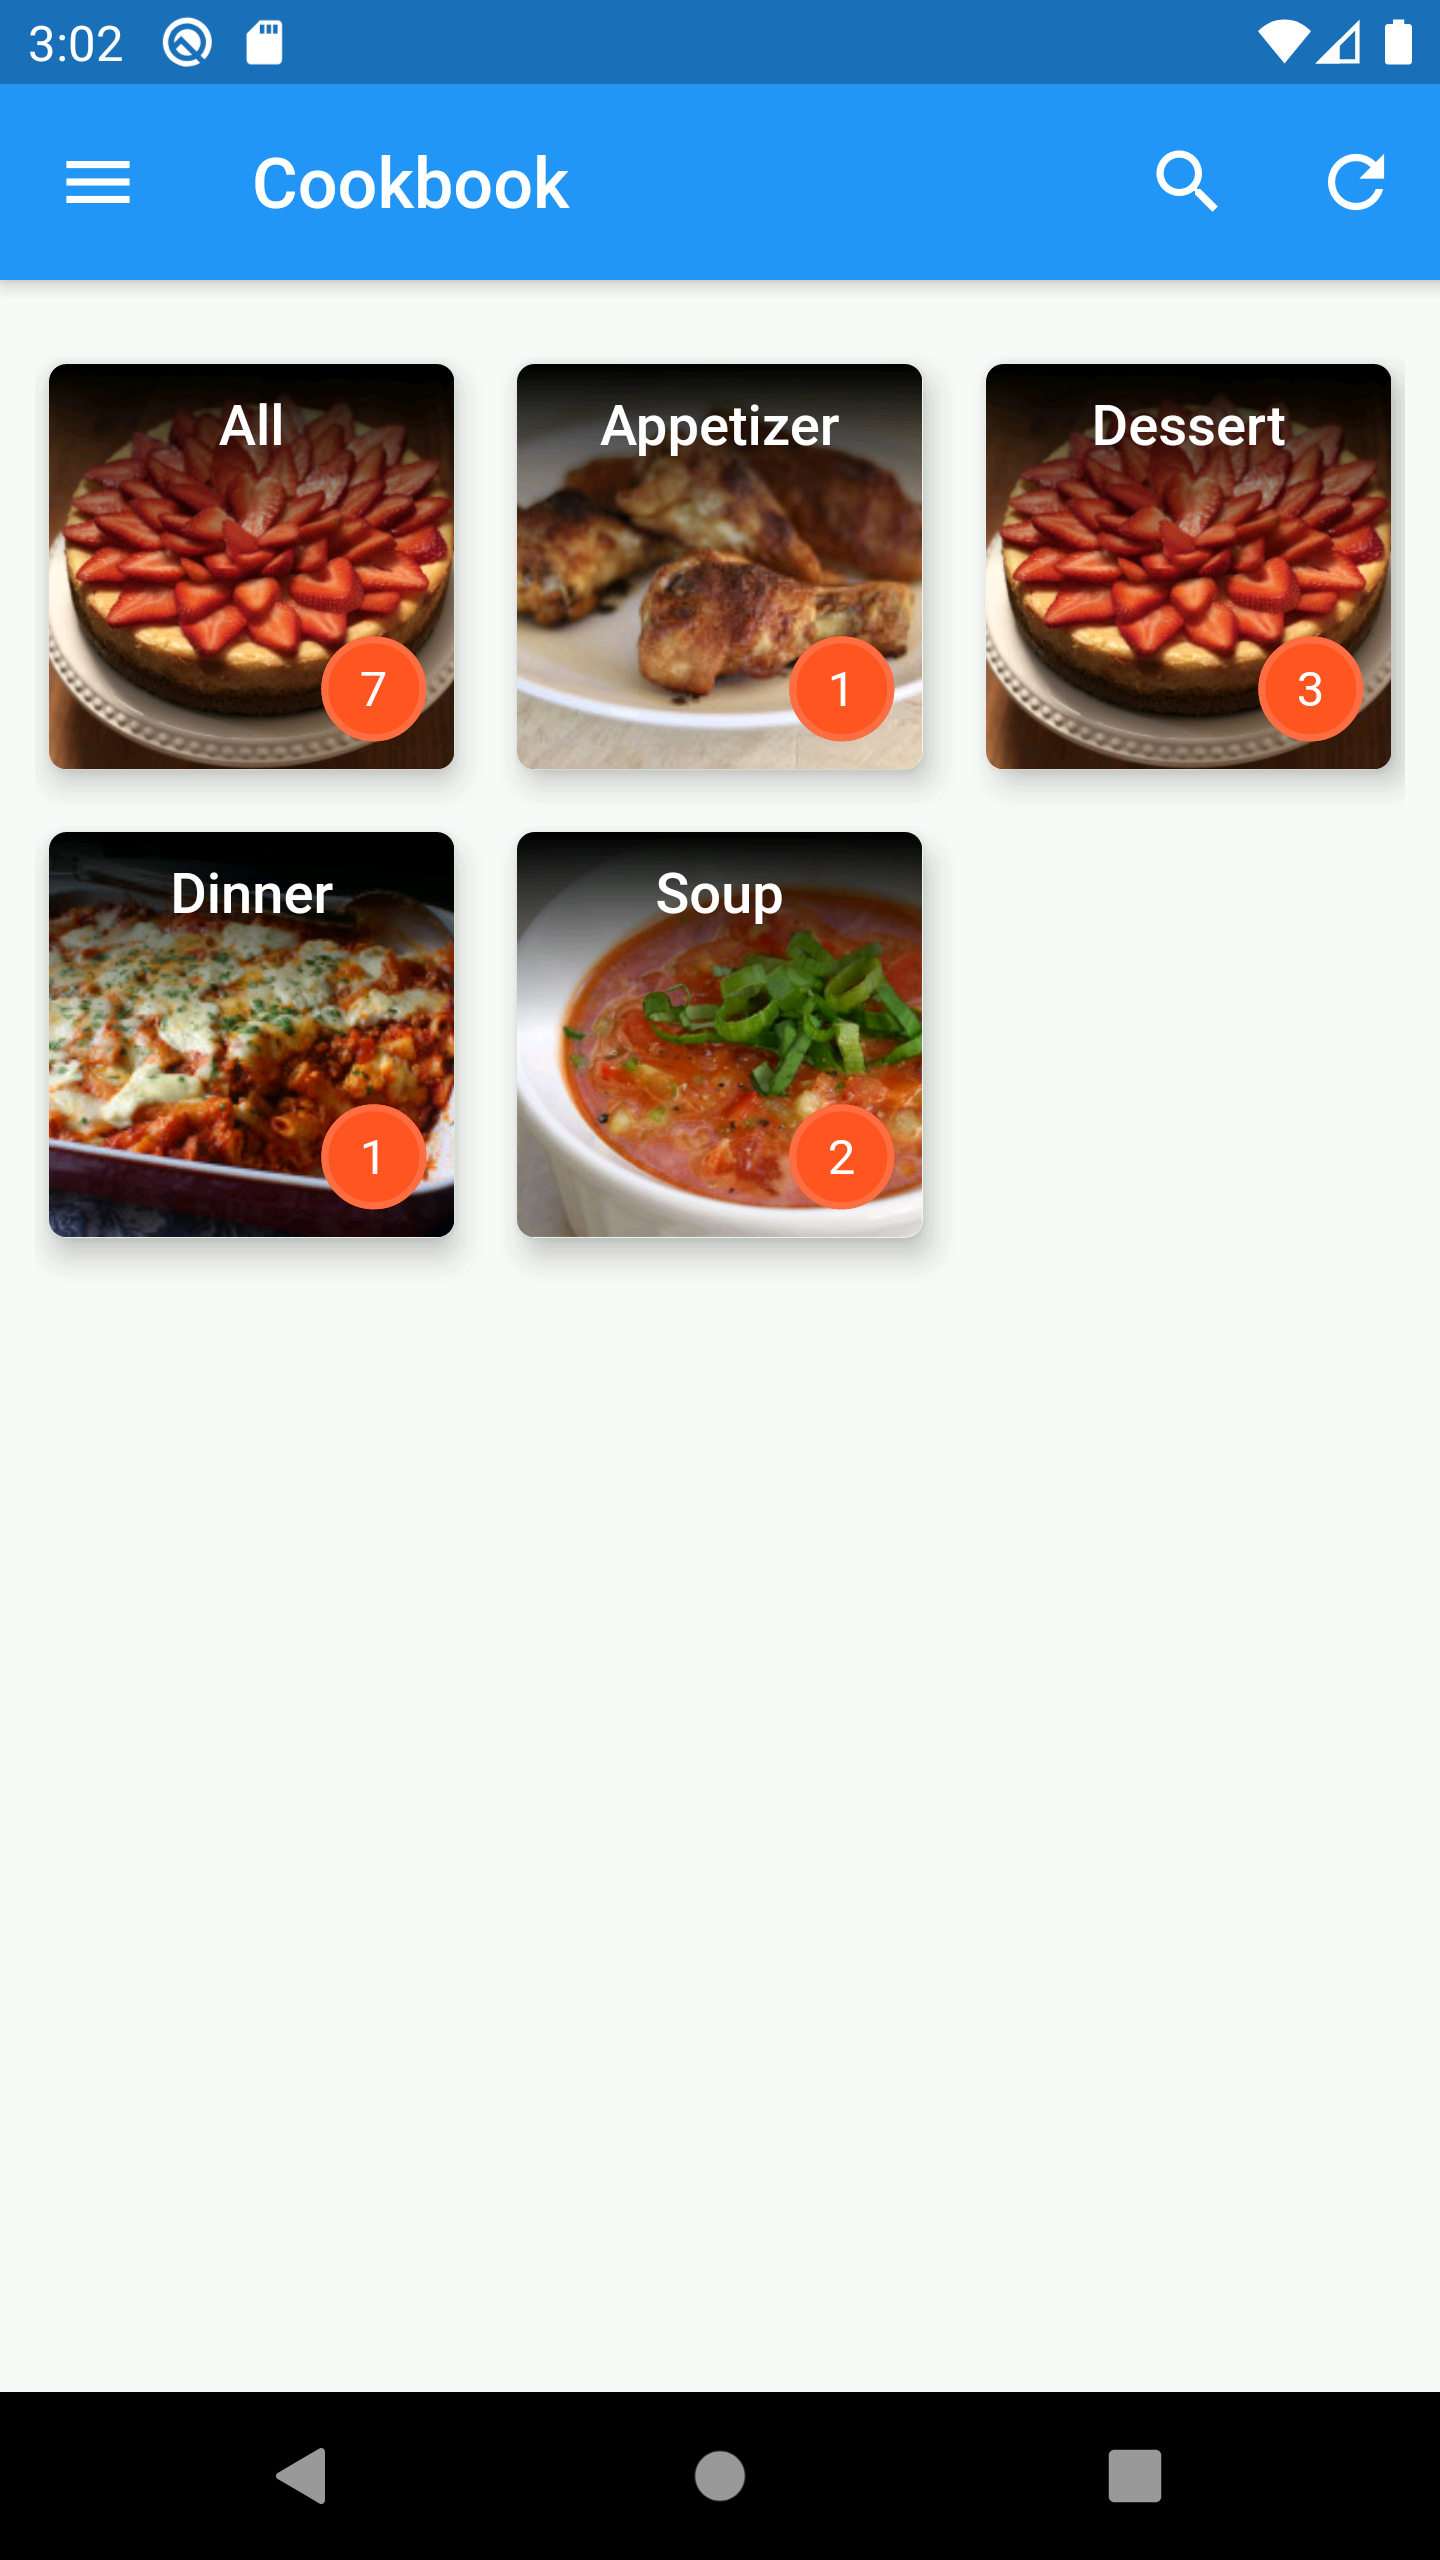
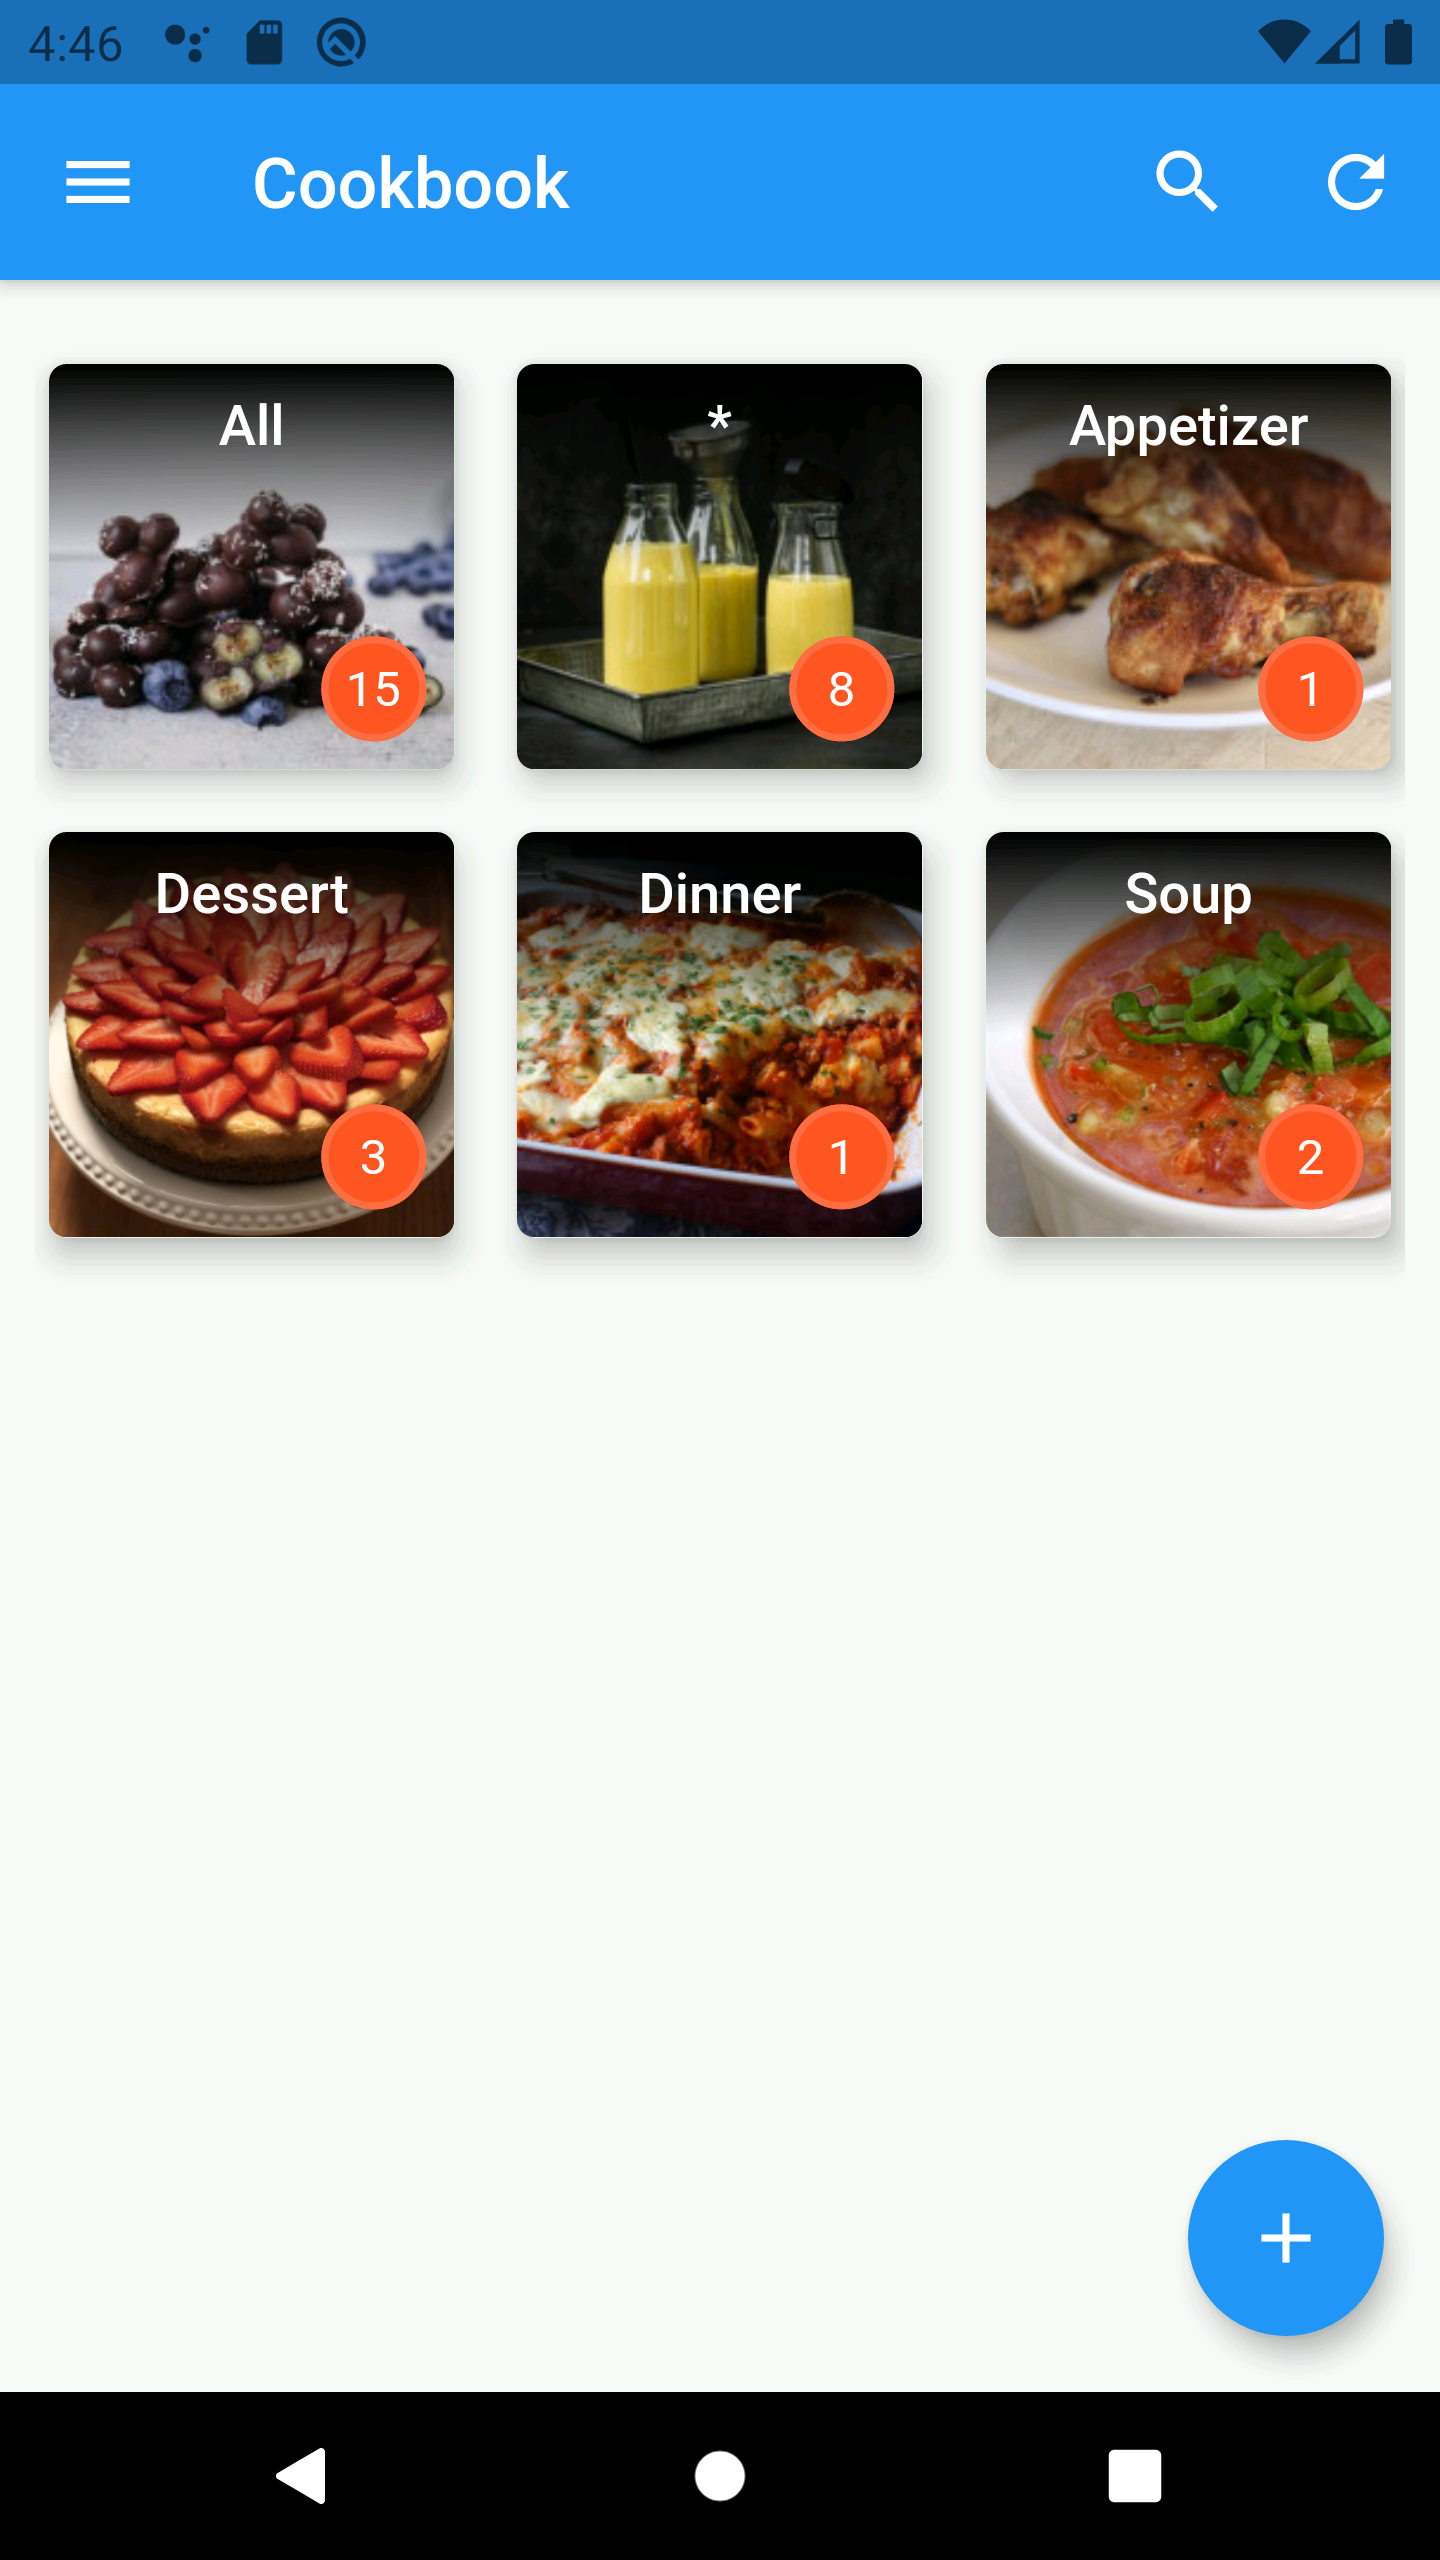
Added new images + updated changelog

diff --git a/README.md b/README.md
@@ -19,12 +19,13 @@ It works best with an Nextcloud installation >= 19 and a Cookbook plugin version
 Current Features:
 - View all recipes by Category
 - Search Recipes by Name
+- Recipe Creating
 - Recipe Editing
 - Recipe Import
+- Darkmode (Thanks to SeineEloquenz)
 
 Planned Features:
-- Recipe Creating *
-- Darkmode
+- Settings Tab *
 - Offline Usage (Caching)
 
 \* Currently worked on!
@@ -36,11 +37,13 @@ https://www.transifex.com/nextcloud/nextcloud/cookbook_flutter/
 
 ### Screenshots
 
-<img src="https://user-images.githubusercontent.com/7461832/106359784-0c7e5100-6315-11eb-809b-975ad55dd3eb.png" alt="Login Screen" width="300px" /> <img src="https://user-images.githubusercontent.com/7461832/106359789-0e481480-6315-11eb-9631-c5d919dfe197.png" alt="Categories" width="300px" />
+<img src="https://user-images.githubusercontent.com/7461832/106359784-0c7e5100-6315-11eb-809b-975ad55dd3eb.png" alt="Login Screen" width="300px" /> <img src="https://user-images.githubusercontent.com/7461832/119380264-c7659c80-bcc0-11eb-9671-45f16f6d505b.png" alt="Categories" width="300px" />
 <img src="https://user-images.githubusercontent.com/7461832/106359788-0daf7e00-6315-11eb-8604-7abbc541e344.png" alt="Search" width="300px" /> <img src="https://user-images.githubusercontent.com/7461832/106359787-0daf7e00-6315-11eb-88a4-b305b796d512.png" alt="Category Recipes" width="300px" />
 <img src="https://user-images.githubusercontent.com/7461832/106396792-8a705400-640a-11eb-9d81-8ca421a689f2.png" alt="Recipe" width="300px" /> <img src="https://user-images.githubusercontent.com/7461832/106359785-0d16e780-6315-11eb-9099-0c33aa8943be.png" alt="Recipe Details" width="300px" /> 
 <img src="https://user-images.githubusercontent.com/7461832/106396793-8c3a1780-640a-11eb-9324-7a9d26205814.png" alt="Recipe Edit 1" width="300px" /> <img src="https://user-images.githubusercontent.com/7461832/106396794-8c3a1780-640a-11eb-8d64-5eb4fc90faa9.png" alt="Recipe Edit 2" width="300px" /> 
 <img src="https://user-images.githubusercontent.com/7461832/115114582-6e536c00-9f90-11eb-873f-5f2cf9ef1e82.png" alt="Recipe Import" width="300px" />
+<img src="https://user-images.githubusercontent.com/7461832/119380327-dcdac680-bcc0-11eb-80d5-f6c0d8647bc9.png" alt="Darkmode Categories" width="300px" /> <img src="https://user-images.githubusercontent.com/7461832/119380320-dc423000-bcc0-11eb-889d-2d0de9983743.png" alt="Darkmode Recipe" width="300px" />
+
 
   
 
